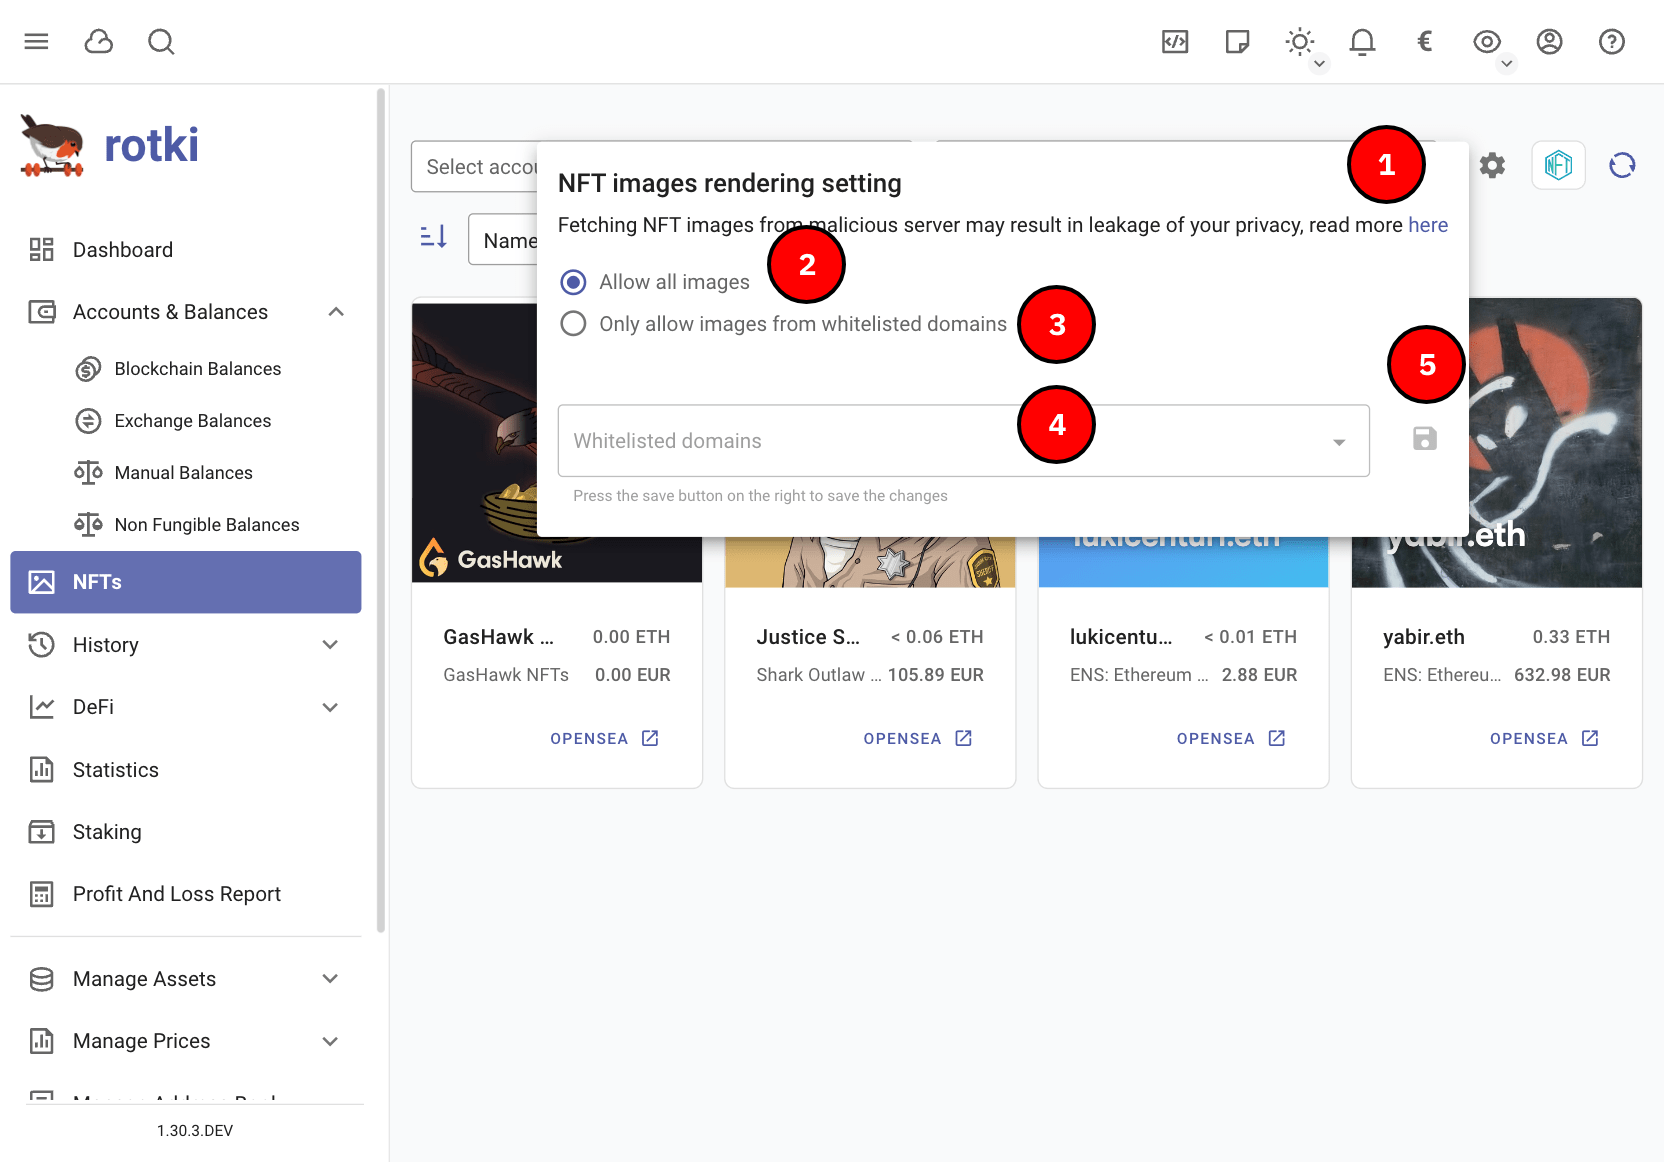
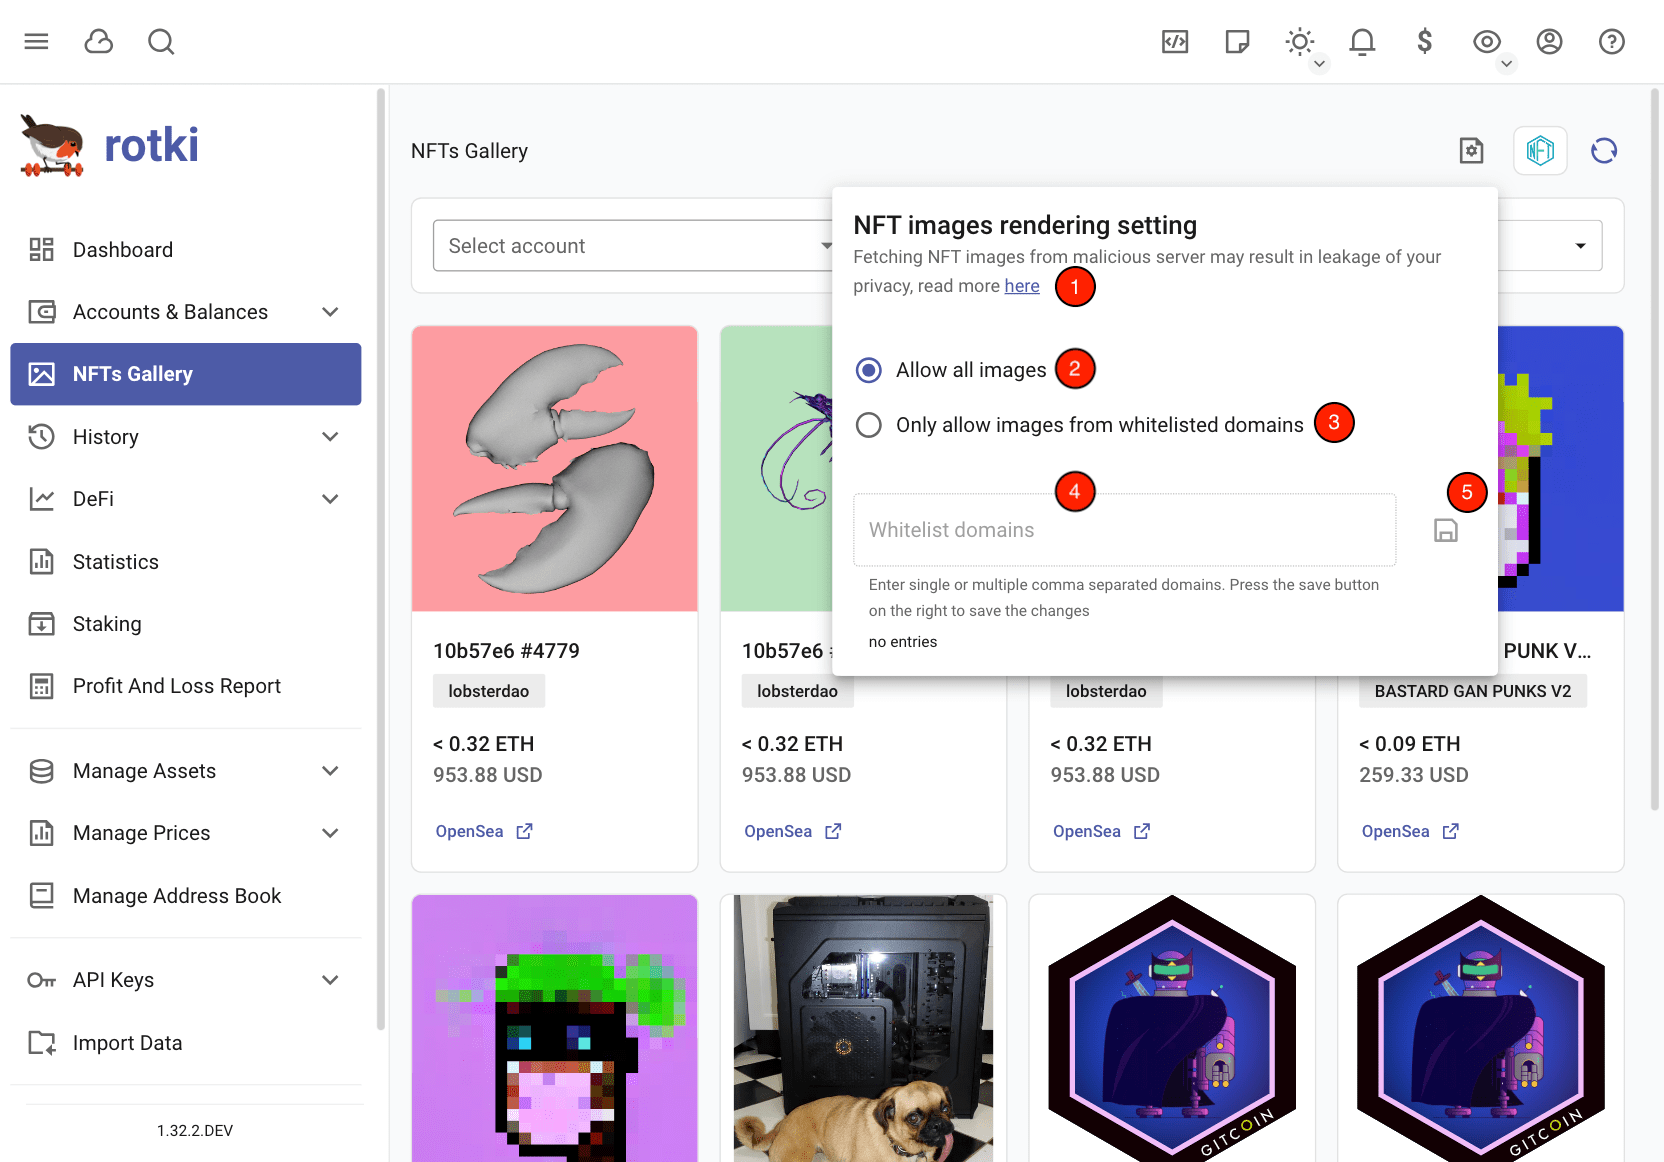
fix(frontend): z-index for nfts settings, update screenshots (#7882)

diff --git a/frontend/app/tests/unit/specs/composables/history/filter-paginate-transactions.spec.ts b/frontend/app/tests/unit/specs/composables/history/filter-paginate-transactions.spec.ts
@@ -9,7 +9,7 @@ import type {
   HistoryEvent,
   HistoryEventRequestPayload,
 } from '@/types/history/events';
-import type { GeneralAccount } from '@rotki/common/src/account';
+import type { Account } from '@rotki/common/src/account';
 import type { MaybeRef } from '@vueuse/core';
 import type Vue from 'vue';
 
@@ -32,7 +32,7 @@ vi.mock('vue', async () => {
 
   return {
     ...mod,
-    onBeforeMount: vi.fn(),
+    onBeforeMount: vi.fn().mockImplementation((fn: Function) => fn()),
   };
 });
 
@@ -45,12 +45,10 @@ describe('composables::history/filter-paginate', () => {
   const protocols: Ref<string[]> = ref([]);
   const eventTypes: Ref<string[]> = ref([]);
   const eventSubTypes: Ref<string[]> = ref([]);
-  const accounts: Ref<GeneralAccount[]> = ref([
+  const accounts: Ref<Account[]> = ref([
     {
       address: '0x2F4c0f60f2116899FA6D4b9d8B979167CE963d25',
       chain: Blockchain.ETH,
-      label: '',
-      tags: [],
     },
   ]);
   const router = useRouter();
@@ -122,7 +120,7 @@ describe('composables::history/filter-paginate', () => {
         },
       );
 
-      expect(get(userAction)).toBe(false);
+      expect(get(userAction)).toBe(true);
       expect(get(isLoading)).toBe(false);
       expect(get(filters)).to.toStrictEqual({});
       expect(get(options).sortBy).toHaveLength(1);

diff --git a/frontend/app/tests/unit/specs/composables/history/filter-paginate-asset-movements.spec.ts b/frontend/app/tests/unit/specs/composables/history/filter-paginate-asset-movements.spec.ts
@@ -5,7 +5,7 @@ import type {
   AssetMovement,
   AssetMovementEntry,
   AssetMovementRequestPayload,
-} from '@/types/history/asset-movements/index';
+} from '@/types/history/asset-movements';
 import type { MaybeRef } from '@vueuse/core';
 import type Vue from 'vue';
 
@@ -28,7 +28,7 @@ vi.mock('vue', async () => {
 
   return {
     ...mod,
-    onBeforeMount: vi.fn(),
+    onBeforeMount: vi.fn().mockImplementation((fn: Function) => fn()),
   };
 });
 
@@ -80,7 +80,7 @@ describe('composables::history/filter-paginate', () => {
         fetchAssetMovements,
       );
 
-      expect(get(userAction)).toBe(false);
+      expect(get(userAction)).toBe(true);
       expect(get(isLoading)).toBe(false);
       expect(get(filters)).to.toStrictEqual({});
       expect(get(options).sortBy).toHaveLength(1);

diff --git a/frontend/app/tests/unit/specs/composables/accounts/filter-paginate-exchange-balances.spec.ts b/frontend/app/tests/unit/specs/composables/accounts/filter-paginate-exchange-balances.spec.ts
@@ -26,7 +26,7 @@ vi.mock('vue', async () => {
 
   return {
     ...mod,
-    onBeforeMount: vi.fn(),
+    onBeforeMount: vi.fn().mockImplementation((fn: Function) => fn()),
   };
 });
 
@@ -89,7 +89,7 @@ describe('composables::history/filter-paginate', () => {
         },
       });
 
-      expect(get(userAction)).toBe(false);
+      expect(get(userAction)).toBe(true);
       expect(get(isLoading)).toBe(false);
       expect(get(filters)).to.toStrictEqual(undefined);
       expect(get(options).sortBy[0]).toEqual('timestamp');

diff --git a/frontend/app/tests/unit/specs/composables/history/filter-paginate-trades.spec.ts b/frontend/app/tests/unit/specs/composables/history/filter-paginate-trades.spec.ts
@@ -29,7 +29,7 @@ vi.mock('vue', async () => {
 
   return {
     ...mod,
-    onBeforeMount: vi.fn(),
+    onBeforeMount: vi.fn().mockImplementation((fn: Function) => fn()),
   };
 });
 
@@ -87,7 +87,7 @@ describe('composables::history/filter-paginate', () => {
         extraParams,
       });
 
-      expect(get(userAction)).toBe(false);
+      expect(get(userAction)).toBe(true);
       expect(get(isLoading)).toBe(false);
       expect(get(filters)).to.toStrictEqual({});
       expect(get(options).sortBy).toHaveLength(1);

diff --git a/frontend/app/tests/unit/specs/composables/accounts/filter-paginate-nfts.spec.ts b/frontend/app/tests/unit/specs/composables/accounts/filter-paginate-nfts.spec.ts
@@ -27,7 +27,7 @@ vi.mock('vue', async () => {
 
   return {
     ...mod,
-    onBeforeMount: vi.fn(),
+    onBeforeMount: vi.fn().mockImplementation((fn: Function) => fn()),
   };
 });
 
@@ -88,7 +88,7 @@ describe('composables::history/filter-paginate', () => {
         },
       );
 
-      expect(get(userAction)).toBe(false);
+      expect(get(userAction)).toBe(true);
       expect(get(isLoading)).toBe(false);
       expect(get(filters)).to.toStrictEqual(undefined);
       expect(get(options).sortBy[0]).toEqual('name');

diff --git a/frontend/app/tests/unit/specs/composables/random-stepper.spec.ts b/frontend/app/tests/unit/specs/composables/random-stepper.spec.ts
@@ -11,7 +11,7 @@ describe('composables::random-stepper', () => {
 
       return {
         ...mod,
-        onMounted: vi.fn(),
+        onMounted: vi.fn().mockImplementation((fn: Function) => fn()),
       };
     });
   });

diff --git a/frontend/app/src/components/settings/general/nft/NftImageRenderingSettingMenu.vue b/frontend/app/src/components/settings/general/nft/NftImageRenderingSettingMenu.vue
@@ -4,7 +4,7 @@ const dialogOpen = ref(false);
 
 <template>
   <RuiMenu
-    menu-class="max-w-[32rem] !z-1"
+    menu-class="max-w-[32rem] !z-[1]"
     :popper="{ placement: 'bottom-end' }"
     :persistent="dialogOpen"
   >
